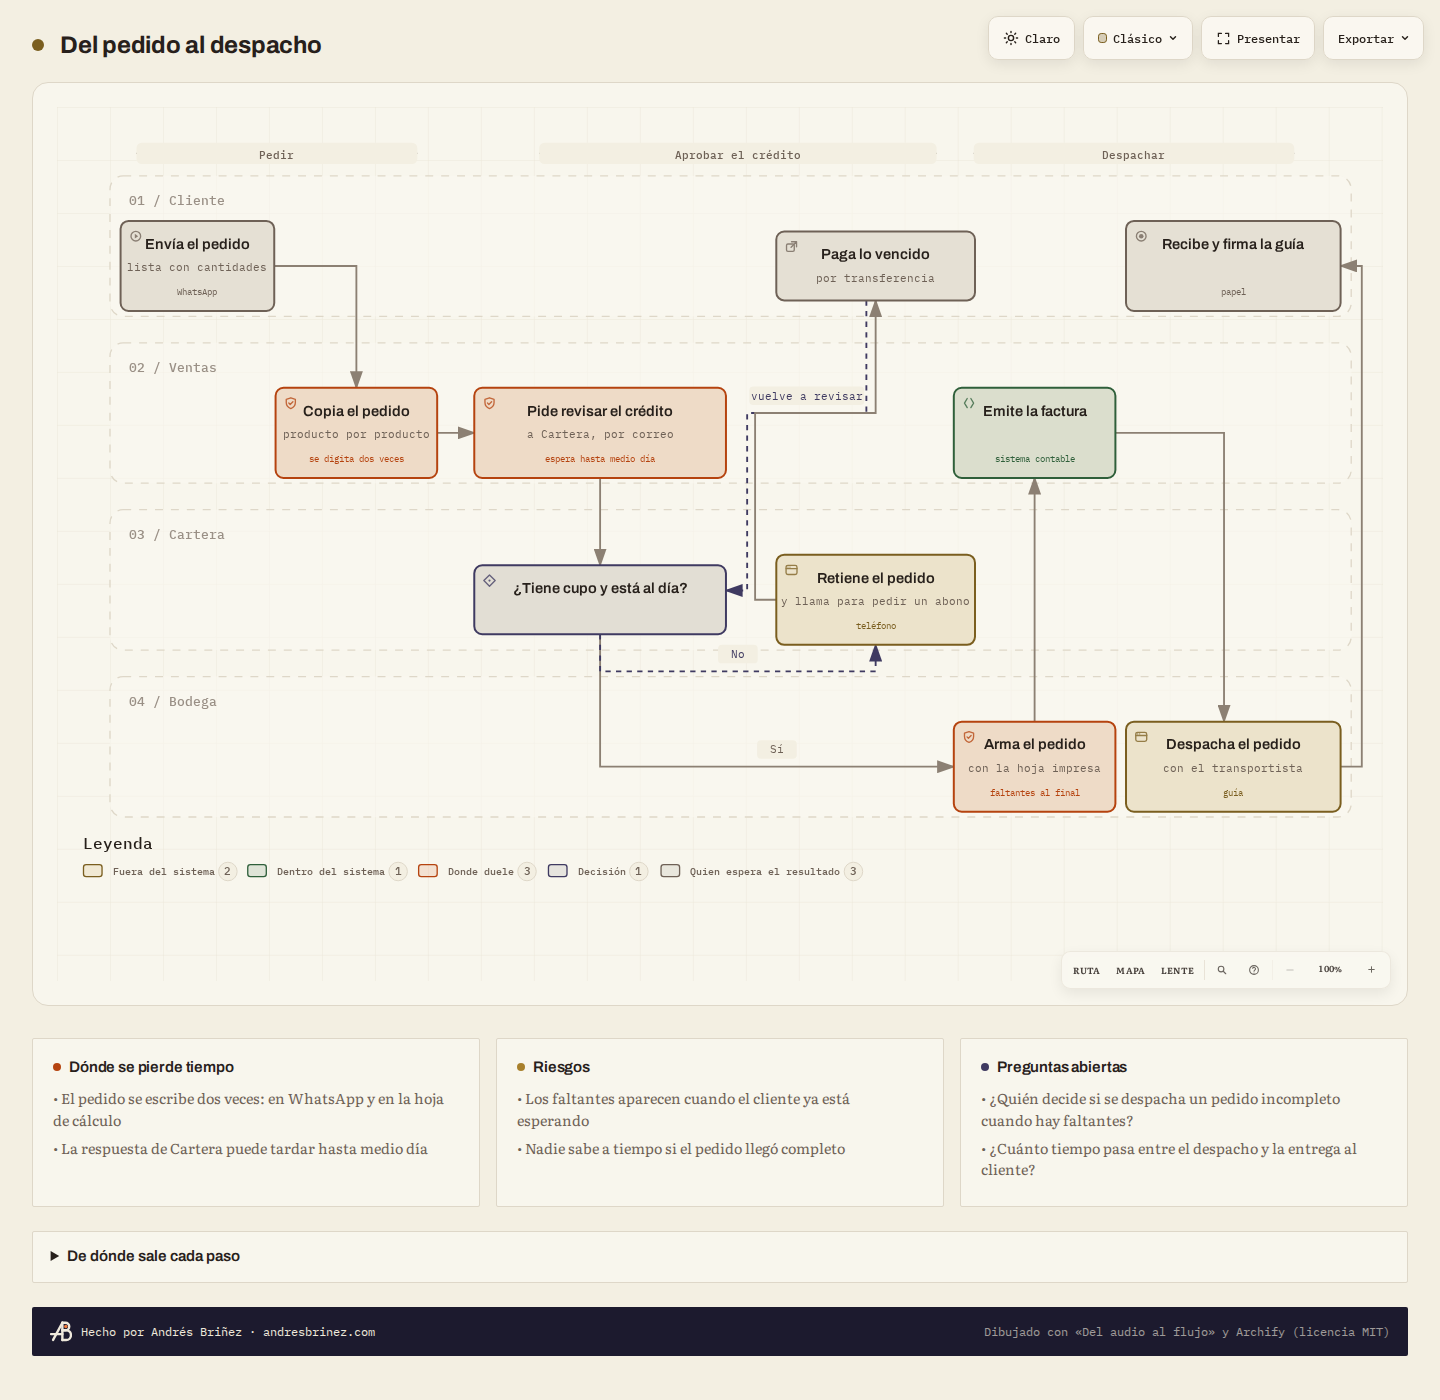
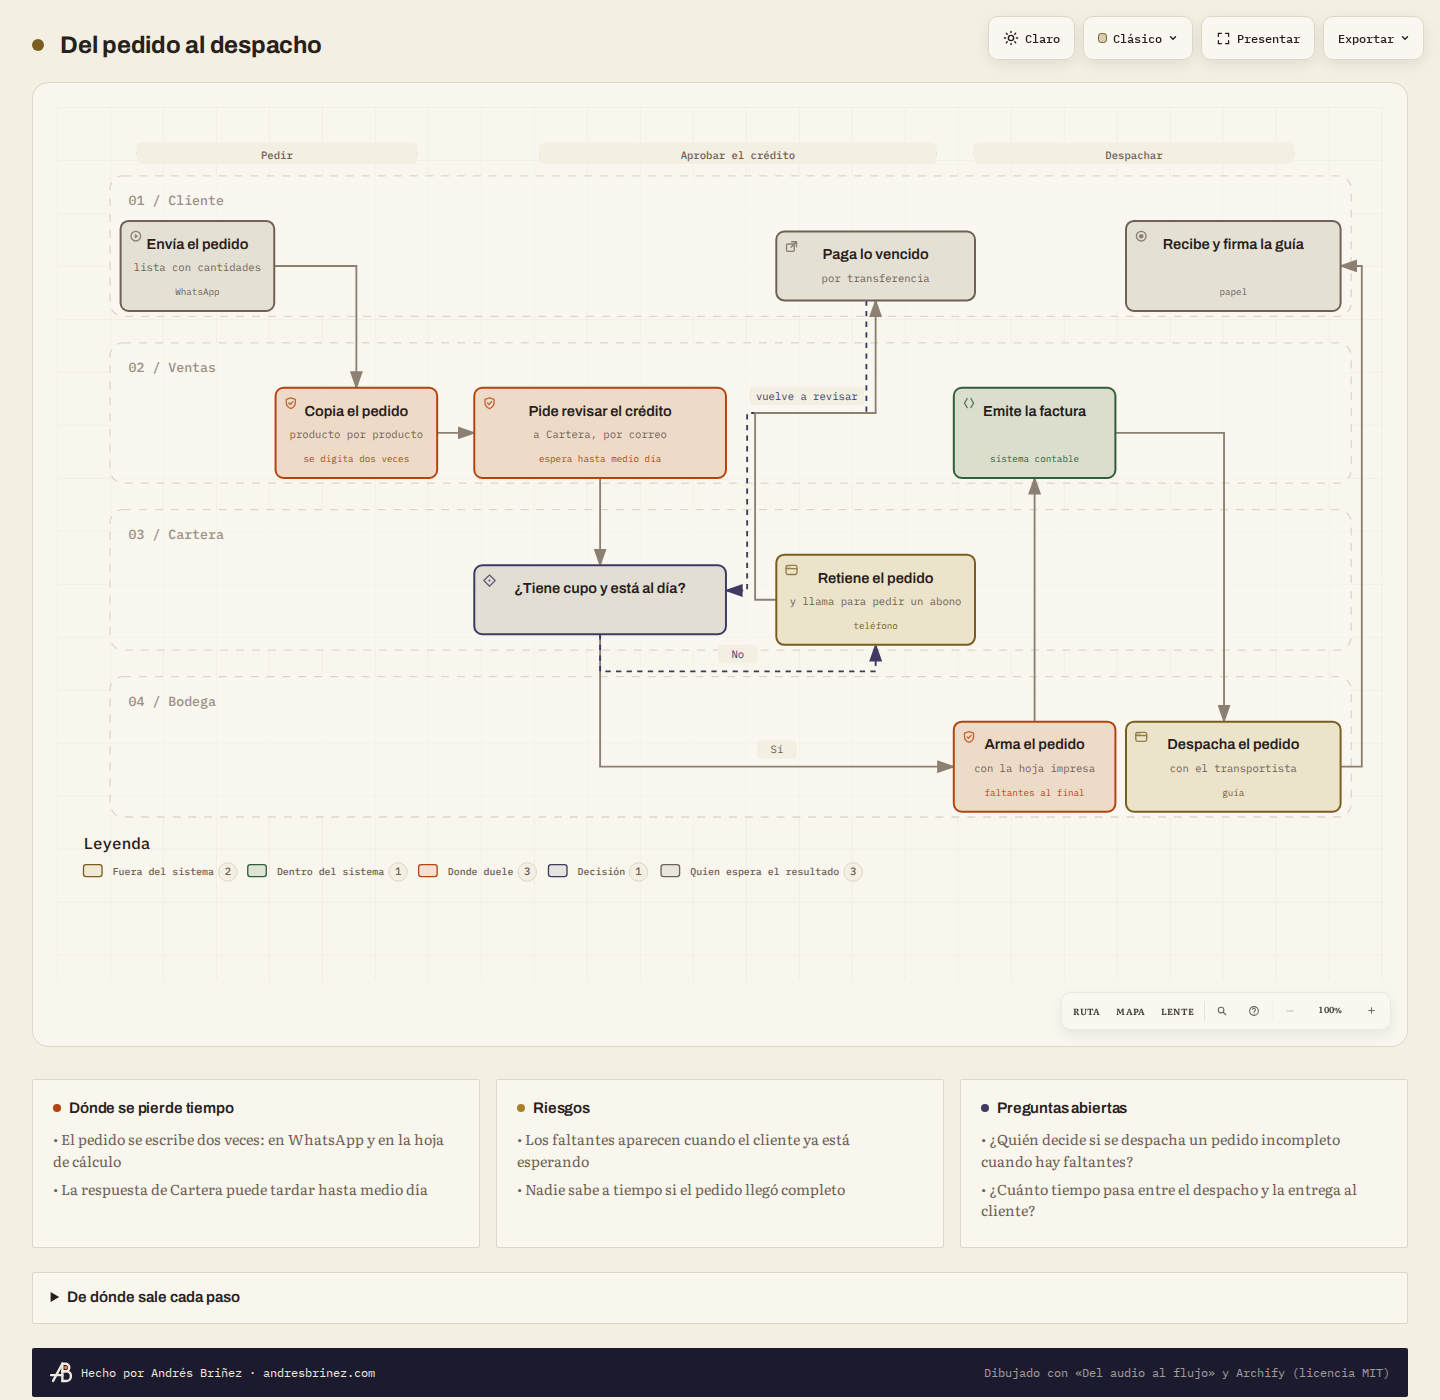
Capturas con el protocolo de depuración del navegador
Un solo navegador sin ventana toma las cuatro capturas después de que cargan las tipografías y prueba el botón Exportar en PNG y SVG. La imagen exportada queda en docs/capturas para el README.

diff --git a/herramientas/capturas.py b/herramientas/capturas.py
@@ -2,11 +2,11 @@
 # -*- coding: utf-8 -*-
 """Prueba de punta a punta con capturas, para quien mantiene la herramienta.
 
-Dibuja el ejemplo (ejemplos/pedido-a-despacho) con dibujar.py, lo fotografía con
-un Chromium sin ventana (escritorio claro, escritorio oscuro, página completa y
-teléfono) y, por último, pulsa «Exportar» en el visor para guardar la imagen PNG
-tal como la descargaría una persona (herramientas/exportar.mjs). Las imágenes van
-a docs/capturas/ y son las que muestra el README.
+Dibuja el ejemplo (ejemplos/pedido-a-despacho) con dibujar.py y lo abre en un
+Chromium sin ventana (herramientas/navegador.mjs): lo fotografía en escritorio
+claro, escritorio oscuro, página completa y teléfono, y pulsa «Exportar» para
+guardar la imagen PNG tal como la descargaría una persona. Las imágenes van a
+docs/capturas/ y son las que muestra el README.
 
     python herramientas/capturas.py [--chrome RUTA] [--salida CARPETA]
 
@@ -27,18 +27,12 @@ from pathlib import Path
 RAIZ = Path(__file__).resolve().parent.parent
 sys.path.insert(0, str(RAIZ))
 
+from flujo.archify import buscar_node  # noqa: E402
 from flujo.cli import main as dibujar  # noqa: E402
 
 EJEMPLO = RAIZ / "ejemplos" / "pedido-a-despacho" / "proceso.json"
 CAPTURAS = RAIZ / "docs" / "capturas"
-
-# nombre, ancho, alto, escala, tema oscuro
-TOMAS = (
-    ("escritorio", 1440, 900, 1, False),
-    ("escritorio-oscuro", 1440, 900, 1, True),
-    ("escritorio-completo", 1440, 1400, 1, False),
-    ("telefono", 390, 844, 2, False),
-)
+TOMAS = ("escritorio", "escritorio-oscuro", "escritorio-completo", "telefono")
 
 
 def buscar_chrome(propio: str | None) -> Path | None:
@@ -53,18 +47,37 @@ def buscar_chrome(propio: str | None) -> Path | None:
     return None
 
 
-def fotografiar(chrome: Path, html: Path, destino: Path, ancho: int, alto: int, escala: int, oscuro: bool) -> None:
-    with tempfile.TemporaryDirectory() as perfil:
-        orden = [str(chrome), "--no-sandbox", "--disable-gpu", "--hide-scrollbars",
-                 "--user-data-dir=%s" % perfil, "--window-size=%d,%d" % (ancho, alto),
-                 "--force-device-scale-factor=%d" % escala, "--virtual-time-budget=6000",
-                 "--screenshot=%s" % destino]
-        if oscuro:
-            orden.append("--blink-settings=preferredColorScheme=0")
-        orden.append(html.resolve().as_uri())
-        subprocess.run(orden, capture_output=True, timeout=120, check=False)
-    if not destino.is_file():
-        raise SystemExit("El navegador no produjo %s." % destino)
+def capturar(chrome: Path, carpeta: Path) -> int:
+    codigo = dibujar([str(EJEMPLO), "--salida", str(carpeta), "--no-abrir"])
+    if codigo != 0:
+        return codigo
+    node, motivo = buscar_node()
+    if not node:
+        print(motivo)
+        return 2
+    fotos = carpeta / "fotos"
+    r = subprocess.run([str(node), str(RAIZ / "herramientas" / "navegador.mjs"), str(chrome),
+                        str(carpeta / "flujo.html"), str(fotos)],
+                       capture_output=True, text=True, encoding="utf-8", timeout=300)
+    print(r.stdout.strip())
+    exportada = sorted((fotos / "descargas").glob("*.png"))
+    if r.returncode != 0 or not exportada or not list((fotos / "descargas").glob("*.svg")):
+        print("Las capturas o la exportación desde el visor fallaron.")
+        print(r.stderr.strip()[-2000:])
+        return 1
+    CAPTURAS.mkdir(parents=True, exist_ok=True)
+    for nombre in TOMAS:
+        shutil.copy(fotos / ("%s.png" % nombre), CAPTURAS / ("%s.png" % nombre))
+        print("Captura: docs/capturas/%s.png" % nombre)
+    destino = CAPTURAS / "imagen-exportada.png"
+    try:  # la exportación sale a 4x; para el README basta la mitad
+        from PIL import Image
+        with Image.open(exportada[0]) as imagen:
+            imagen.resize((imagen.width // 2, imagen.height // 2), Image.LANCZOS).save(destino, optimize=True)
+    except ImportError:
+        shutil.copy(exportada[0], destino)
+    print("Captura: docs/capturas/%s" % destino.name)
+    return 0
 
 
 def main() -> int:
@@ -77,45 +90,9 @@ def main() -> int:
         print("No encontré un Chromium sin ventana. Indique uno con --chrome.")
         return 2
     if args.salida:
-        return capturar(chrome, Path(args.salida))
+        return capturar(chrome, Path(args.salida).resolve())
     with tempfile.TemporaryDirectory(prefix="flujo-") as carpeta:
         return capturar(chrome, Path(carpeta))
-
-
-def capturar(chrome: Path, carpeta: Path) -> int:
-    codigo = dibujar([str(EJEMPLO), "--salida", str(carpeta), "--no-abrir"])
-    if codigo != 0:
-        return codigo
-    CAPTURAS.mkdir(parents=True, exist_ok=True)
-    for nombre, ancho, alto, escala, oscuro in TOMAS:
-        destino = CAPTURAS / ("%s.png" % nombre)
-        fotografiar(chrome, carpeta / "flujo.html", destino, ancho, alto, escala, oscuro)
-        print("Captura: %s" % destino.relative_to(RAIZ))
-    return exportar(chrome, carpeta)
-
-
-def exportar(chrome: Path, carpeta: Path) -> int:
-    """Pulsa «Exportar» en el visor y guarda la imagen PNG que descarga una persona."""
-    from flujo.archify import buscar_node
-    node, _ = buscar_node()
-    descargas = carpeta / "descargas"
-    r = subprocess.run([str(node), str(RAIZ / "herramientas" / "exportar.mjs"), str(chrome),
-                        str(carpeta / "flujo.html"), str(descargas)],
-                       capture_output=True, text=True, encoding="utf-8", timeout=180)
-    print(r.stdout.strip())
-    imagenes = sorted(descargas.glob("*.png"))
-    if r.returncode != 0 or not imagenes or not list(descargas.glob("*.svg")):
-        print("La exportación desde el visor falló.")
-        return 1
-    destino = CAPTURAS / "imagen-exportada.png"
-    try:  # la exportación sale a 4x; para el README basta la mitad
-        from PIL import Image
-        with Image.open(imagenes[0]) as imagen:
-            imagen.resize((imagen.width // 2, imagen.height // 2), Image.LANCZOS).save(destino, optimize=True)
-    except ImportError:
-        shutil.copy(imagenes[0], destino)
-    print("Captura: %s" % destino.relative_to(RAIZ))
-    return 0
 
 
 if __name__ == "__main__":
